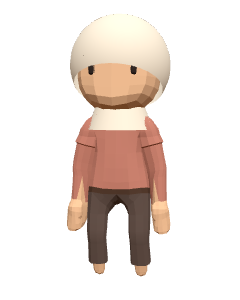
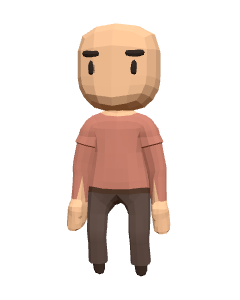
HD characters: feet on the ground, steps keep up with the walking speed; villagers on the square are HD
- The HD body stands just above the paving/floors (they lie a little above 0) and wears shoes
  (the models were barefoot: thin skin-coloured feet that looked sunk into the ground).
- The walk animation is played as fast as the character really moves (measured stride),
  so the feet no longer slide; capped so it never turns frantic.
- Every villager on the square is an HD character in their own colours, with moustache,
  glasses, cap, apron, headscarf and long dress where they have one; sitting villagers
  (tea garden, kahvehane, chess) sit. Blocky again elsewhere.
- Each HD character gets its own materials (clones shared them: one shirt colour painted all).
- Switching clips fades out every running clip (idle kept playing under "sit": half-standing).
- Clothes are measured facing +z, so a turned character gets them in the right place.

Claude-Session: https://claude.ai/code/session_01TLT5TM9P15eVN76bNK6R9H

diff --git a/web/src/entities/Character.js b/web/src/entities/Character.js
@@ -2,7 +2,7 @@ import * as THREE from 'three';
 import { buildRig, RIG_PROPS } from './CharacterRig.js';
 import { fitToBox } from '../engine/ModelLibrary.js';
 import { sitPose } from './Behaviors.js';
-import { addHeadscarf, addDress, paintOutfit } from './hdClothes.js';
+import { addHeadscarf, addDress, paintOutfit, addShoes, paintLook, addLookExtras, facingZ } from './hdClothes.js';
 
 const wrapAngle = (d) => { while (d > Math.PI) d -= Math.PI * 2; while (d < -Math.PI) d += Math.PI * 2; return d; };
 
@@ -12,9 +12,11 @@ export class Character {
   #aura = null;
   #hdKey = null;
   #hdWanted = false;
+  #lastPos = null;
   constructor(id, appearance, { mf, models }) {
     this.id = id;
     this.appearance = appearance;
+    this.models = models;
     this.rig = buildRig(mf, appearance);
     this.group = this.rig.g;
     (appearance.props || []).forEach((p) => { this.rig.props[p] = RIG_PROPS[p](mf, this.rig); this.rig.props[p].visible = false; });
@@ -91,6 +93,13 @@ export class Character {
   }
 
   update(dt) {
+    const hdWalk = this.#hd?.stride && this.mixer === this.#hd.mixer && this.current === 'walk' ? this.clips.walk : null;
+    if (hdWalk && dt > 0) { // the steps keep up with the real speed
+      const p = this.group.position, moved = this.#lastPos ? Math.hypot(p.x - this.#lastPos.x, p.z - this.#lastPos.z) / dt : 0;
+      const natural = this.#hd.stride * (this.group.scale.x || 1);
+      hdWalk.timeScale += (Math.min(3.5, Math.max(0.7, moved / natural || 1)) - hdWalk.timeScale) * Math.min(1, dt * 8);
+    }
+    this.#lastPos = { x: this.group.position.x, z: this.group.position.z };
     this.mixer?.update(dt);
     const skirt = this.#hd?.skirt;
     if (skirt) { skirt.skirt.visible = this.#hd.scene.visible && !this.seated; if (skirt.skirt.visible) skirt.follow(); } // seated: the legs, in the dress's colour
@@ -112,10 +121,12 @@ export class Character {
   }
 
   /**
-   * The HD character from the shop (assets/models/hd_*.glb, Quaternius CC0) instead of the blocky
-   * body while `on`. Loaded once; `covered`: the hair goes, a headscarf goes on (Sare).
+   * The HD character (assets/models/hd_*.glb, Quaternius CC0) instead of the blocky body while
+   * `on`: the player's from the shop, and the villagers on the square. Loaded once.
+   * `covered`: the hair goes, a headscarf goes on; `dress`: a long skirt; `look`: a villager's
+   * own colours and moustache, glasses, cap, apron (CharacterRig's appearance).
    */
-  async setHd(models, key, on, { covered = false, dress = false } = {}) {
+  async setHd(models, key, on, { covered = false, dress = false, look = null, scarfColor = null } = {}) {
     this.#hdWanted = on;
     if (on && this.#hd && this.#hd !== 'loading' && this.#hdKey !== key) { // another outfit: drop the old one
       this.#hd.scene.removeFromParent(); this.#hd.skirt?.skirt.removeFromParent(); this.#hd = null;
@@ -125,14 +136,18 @@ export class Character {
       this.#hd = 'loading';
       try {
         const { scene, animations } = await models.load(key);
+        // every character its own materials (the clones share them: one shirt colour would paint them all)
+        scene.traverse((o) => { if (o.isMesh) o.material = Array.isArray(o.material) ? o.material.map((m) => m.clone()) : o.material.clone(); });
         // the animation first: it moves the bones (and the model's size) into their real place
         const mixer = new THREE.AnimationMixer(scene), clips = {};
         animations.forEach((a) => { clips[a.name] = mixer.clipAction(a); });
         if (clips.sit) { clips.sit.setLoop(THREE.LoopOnce); clips.sit.clampWhenFinished = true; } // sits down and stays
         clips.idle?.play(); mixer.update(0);
         scene.updateMatrixWorld(true);
-        const b = new THREE.Box3().setFromObject(scene, true);
-        scene.scale.multiplyScalar(2.15 / (b.max.y - b.min.y)); // the blocky body's height (the group's scale makes a child of it)
+        const b = new THREE.Box3().setFromObject(scene, true), k = 2.15 / (b.max.y - b.min.y);
+        scene.scale.multiplyScalar(k); // the blocky body's height (the group's scale makes a child of it)
+        scene.position.y = -b.min.y * k + 0.04 / (this.group.scale.y || 1); // the soles just on the ground (floors and paving lie a little above 0)
+        const stride = this.#strideSpeed(scene, mixer, clips);
         const skin = this.appearance.skin ?? 0xE9B98F, hair = [];
         scene.traverse((o) => {
           if (!o.isMesh) return;
@@ -145,10 +160,17 @@ export class Character {
         });
         const [, outfit, gender] = key.split('.'); // hd.<outfit>.<boy|girl>
         const scarf = paintOutfit(scene, dress ? 'dress' : outfit, gender);
+        if (look) paintLook(scene, look);
+        addShoes(scene, look?.pants && dress ? 0x4A3A30 : 0x3B2A20);
         this.group.add(scene);
-        const scarfParts = covered ? addHeadscarf(scene, this.group, scarf) ?? [] : [];
-        const skirt = dress ? addDress(scene, this.group) : null;
-        this.#hd = { scene, mixer, clips, skirt, ...(scarfParts.length ? { scarf: scarfParts, hair } : {}) };
+        const extras = facingZ(this.group, () => {
+          const scarfParts = covered ? addHeadscarf(scene, this.group, scarfColor ?? scarf) ?? [] : [];
+          const skirt = dress ? addDress(scene, this.group, look?.skirt ?? null) : null;
+          if (look) addLookExtras(scene, this.group, look);
+          return { scarfParts, skirt };
+        });
+        const { scarfParts, skirt } = extras;
+        this.#hd = { scene, mixer, clips, skirt, stride, ...(scarfParts.length ? { scarf: scarfParts, hair } : {}) };
         if (this.covered === false) this.#hdCover(false); // already at home: hair open
       } catch (e) { console.warn('[models] hd:', e.message); this.#hd = null; return; }
     }
@@ -162,6 +184,25 @@ export class Character {
     this.current = null;
     if (on) this.#playClip(this.seated ? 'sit' : 'idle');
   }
+
+  /**
+   * How fast the walk animation itself moves forward (group units a second at normal speed): how
+   * far a foot travels back while on the ground, per half step. update() plays the walk that much
+   * faster or slower than the character really moves, so the feet don't slide.
+   */
+  #strideSpeed(scene, mixer, clips) {
+    const walk = clips.walk, foot = scene.getObjectByName('FootL');
+    if (!walk || !foot) return 0;
+    const dur = walk.getClip().duration, v = new THREE.Vector3();
+    let lo = Infinity, hi = -Infinity;
+    clips.idle?.stop(); walk.play();
+    for (let i = 0; i <= 24; i++) { mixer.setTime((dur * i) / 24); scene.updateMatrixWorld(true); scene.worldToLocal(foot.getWorldPosition(v)); lo = Math.min(lo, v.z); hi = Math.max(hi, v.z); }
+    walk.stop(); clips.idle?.play(); mixer.setTime(0); scene.updateMatrixWorld(true);
+    return ((hi - lo) * scene.scale.z) / (dur / 2);
+  }
+
+  /** After a change of seat or behaviour: the HD body sits or stands again. */
+  replayHd() { if (this.mixer && this.mixer === this.#hd?.mixer) { this.current = null; this.#playClip(this.seated ? 'sit' : 'idle'); } }
 
   /** A pulsing golden ring of light on the ground under the character (bought in the shop). */
   setAura(on) {
@@ -178,7 +219,9 @@ export class Character {
 
   #playClip(name) {
     if (!this.mixer || this.current === name || !this.clips[name]) return;
-    this.clips[this.current]?.fadeOut(0.2);
+    // every other running clip fades out (not only `current`: after a reset of `current` the
+    // idle kept playing under the sit and the two mixed into a half-standing pose)
+    Object.entries(this.clips).forEach(([n, a]) => { if (n !== name && a.isRunning()) a.fadeOut(0.2); });
     this.clips[name].reset().fadeIn(0.2).play();
     this.current = name;
   }

diff --git a/web/src/entities/hdClothes.js b/web/src/entities/hdClothes.js
@@ -49,7 +49,7 @@ export function addHeadscarf(scene, holder, color = 0xEFE3CF) {
  * and swallowed the body): it hangs straight down under the hips, which `follow()` tracks once
  * a frame. Measured in the standing pose. Returns { skirt, follow }.
  */
-export function addDress(scene, holder) {
+export function addDress(scene, holder, color = null) {
   const hips = scene.getObjectByName('Hips');
   if (!hips) return null;
   const turned = holder.rotation.y;
@@ -58,6 +58,7 @@ export function addDress(scene, holder) {
   const pants = box('Pants'), all = new THREE.Box3().setFromObject(scene, true);
   let shirt = null;
   scene.traverse((o) => { if (o.isMesh && o.material?.name === 'Shirt') shirt = o.material.color; });
+  if (color != null) shirt = new THREE.Color(color); // a villager's skirt colour
   scene.traverse((o) => { if (o.isMesh && o.material?.name === 'Pants' && shirt) o.material.color.copy(shirt); });
   const ws = holder.getWorldScale(new THREE.Vector3()).x;
   const top = pants.max.y, bottom = all.min.y + (pants.max.y - all.min.y) * 0.1; // waist → just above the feet
@@ -73,4 +74,80 @@ export function addDress(scene, holder) {
   const follow = () => { holder.worldToLocal(hips.getWorldPosition(v)); skirt.position.set(v.x, v.y + drop, v.z); };
   follow();
   return { skirt, follow };
+}
+
+/** Measures in the holder's own frame (facing +z), whatever way it is turned now. */
+export function facingZ(holder, fn) {
+  const turned = holder.rotation.y;
+  holder.rotation.y = 0; holder.updateMatrixWorld(true);
+  try { return fn(); } finally { holder.rotation.y = turned; holder.updateMatrixWorld(true); }
+}
+const boxOf = (scene, name) => { const b = new THREE.Box3(); scene.traverse((o) => { if (o.isMesh && [o.material].flat().some((m) => m.name === name)) b.expandByObject(o, true); }); return b; };
+
+/**
+ * Shoes: the models are barefoot (the feet are skin) and the thin bare feet looked sunk into the
+ * ground. The skin triangles that move with the foot bones get their own shoe material.
+ */
+export function addShoes(scene, color = 0x3B2A20) {
+  scene.traverse((o) => {
+    if (!o.isSkinnedMesh || [o.material].flat()[0]?.name !== 'Skin' || Array.isArray(o.material)) return;
+    const g = o.geometry, idx = g.index, si = g.attributes.skinIndex, sw = g.attributes.skinWeight;
+    const bones = o.skeleton.bones.map((b) => b.name);
+    const get = [si.getX, si.getY, si.getZ, si.getW], wget = [sw.getX, sw.getY, sw.getZ, sw.getW];
+    const onFoot = (v) => { let b = 0; for (let k = 1; k < 4; k++) if (wget[k].call(sw, v) > wget[b].call(sw, v)) b = k; return /^(Foot|LowerLeg)/.test(bones[get[b].call(si, v)]); }; // the feet and the skin of the shins: shoes and socks
+    const keep = [], shoe = [];
+    for (let t = 0; t < idx.count; t += 3) {
+      const tri = [idx.getX(t), idx.getX(t + 1), idx.getX(t + 2)];
+      (tri.some(onFoot) ? shoe : keep).push(...tri);
+    }
+    if (!shoe.length) return;
+    g.setIndex([...keep, ...shoe]);
+    g.clearGroups(); g.addGroup(0, keep.length, 0); g.addGroup(keep.length, shoe.length, 1);
+    const m = o.material.clone(); m.name = 'Shoes'; m.color.setHex(color);
+    o.material = [o.material, m];
+  });
+}
+
+/** A villager's own colours on the HD model (the blocky look: shirt, trousers, hair, vest). */
+export function paintLook(scene, look) {
+  const p = { Shirt: look.shirt, Pants: look.pants, Hair: look.hair, Black: look.vest ?? look.shirt, Details: look.vest ?? look.shirt };
+  scene.traverse((o) => {
+    if (!o.isMesh) return;
+    for (const m of [o.material].flat()) if (p[m.name] != null) m.color.setHex(p[m.name]);
+    if ([o.material].flat()[0]?.name === 'Hair' && !look.hair) o.visible = false; // bald
+  });
+}
+
+/**
+ * What makes a villager recognisable, on the HD model: moustache, glasses, cap, apron. Placed from
+ * the eyes (the "Face" material) and fixed to the head / hip bone so they follow the animation.
+ */
+export function addLookExtras(scene, holder, look) {
+  const head = scene.getObjectByName('Head'), hips = scene.getObjectByName('Hips');
+  if (!head) return [];
+  return facingZ(holder, () => {
+    const face = boxOf(scene, 'Face'), hair = boxOf(scene, 'Hair'), shirt = boxOf(scene, 'Shirt');
+    if (face.isEmpty()) return [];
+    const ws = holder.getWorldScale(new THREE.Vector3()).x;
+    const fw = face.max.x - face.min.x, fh = face.max.y - face.min.y, c = face.getCenter(new THREE.Vector3());
+    const out = [];
+    const put = (mesh, x, y, z, bone = head) => { mesh.scale.multiplyScalar(1 / ws); mesh.position.copy(holder.worldToLocal(new THREE.Vector3(x, y, z))); holder.add(mesh); bone.attach(mesh); out.push(mesh); };
+    const mat = (color) => new THREE.MeshStandardMaterial({ color, roughness: 0.9 });
+    if (look.mustache) put(new THREE.Mesh(new THREE.BoxGeometry(fw * 0.62, fh * 0.32, fh * 0.25), mat(look.mustache)), c.x, face.min.y - fh * 0.85, face.max.z + fh * 0.02);
+    if (look.glasses) {
+      const rim = mat(0x1B2440);
+      [-1, 1].forEach((s) => put(new THREE.Mesh(new THREE.TorusGeometry(fw * 0.2, fw * 0.035, 6, 18), rim), c.x + s * fw * 0.27, face.min.y + fh * 0.3, face.max.z + fh * 0.12));
+      put(new THREE.Mesh(new THREE.BoxGeometry(fw * 0.14, fw * 0.035, fw * 0.035), rim), c.x, face.min.y + fh * 0.35, face.max.z + fh * 0.12);
+    }
+    if (look.cap) {
+      const top = hair.isEmpty() ? face.max.y + fh * 2 : hair.max.y, r = hair.isEmpty() ? fw * 0.8 : (hair.max.x - hair.min.x) * 0.47;
+      put(new THREE.Mesh(new THREE.CylinderGeometry(r, r, fh * 0.9, 18), mat(look.cap)), c.x, top - fh * 0.2, c.z - fw * 0.25);
+      put(new THREE.Mesh(new THREE.BoxGeometry(r * 1.1, fh * 0.12, r * 0.8), mat(look.cap)), c.x, top - fh * 0.6, face.max.z + r * 0.15);
+    }
+    if (look.apron && !shirt.isEmpty() && hips) {
+      const w = (shirt.max.x - shirt.min.x) * 0.5, h = (shirt.max.y - shirt.min.y) * 1.25;
+      put(new THREE.Mesh(new THREE.BoxGeometry(w, h, 0.02), mat(0xFFFFFF)), c.x, shirt.max.y - h * 0.62, shirt.max.z + 0.012, hips);
+    }
+    return out;
+  });
 }

diff --git a/web/src/entities/Npc.js b/web/src/entities/Npc.js
@@ -1,6 +1,17 @@
 import { Character } from './Character.js';
 import { Behaviors } from './Behaviors.js';
 
+/** Villagers are HD characters on the square (Character.setHd), blocky everywhere else. */
+export const HD_PLACES = new Set(['village']);
+/** The HD model and dressing for a villager's blocky look. */
+export function villagerHd(look) {
+  const woman = !!(look.skirt || look.headscarf || look.bun);
+  return {
+    key: woman ? 'hd.casual.girl' : look.vest ? 'hd.suit.boy' : 'hd.casual.boy',
+    opts: { covered: !!look.headscarf, scarfColor: look.headscarf ?? null, dress: !!look.skirt, look },
+  };
+}
+
 /** A non-player character: stands at an anchor in a location and runs a behaviour. */
 export class Npc extends Character {
   constructor(id, def, deps) {
@@ -31,6 +42,17 @@ export class Npc extends Character {
     if (!this.home) throw new Error(`${this.id}: unknown anchor ${location.id}.${anchor}`);
     this.place(this.home);
     this.setBehavior(behaviorName);
+    this.#hdFor(location.id);
+  }
+
+  /** HD on the square, blocky elsewhere; sitting behaviours sit the HD body down. */
+  #hdFor(place) {
+    const on = HD_PLACES.has(place);
+    if (!on && !this.hdOn) return;
+    this.hdOn = on;
+    const { key, opts } = villagerHd(this.appearance);
+    this.seated = on && !!this.behavior.seated;
+    this.setHd(this.models, key, on, opts);
   }
 
   setBehavior(name) {
@@ -44,6 +66,7 @@ export class Npc extends Character {
     Object.keys(r.props).forEach((p) => this.showProp(p, false));
     this.behavior = Behaviors[name] ?? Behaviors.stand;
     (this.behavior.props || []).forEach((p) => this.showProp(p, true));
+    if (this.hdOn) { this.seated = !!this.behavior.seated; this.replayHd(); }
   }
 
   /**

diff --git a/web/tools/models/preview.html b/web/tools/models/preview.html
@@ -2,7 +2,7 @@
 <!-- Renders the shop pictures of the outfits: node tools/models/render-previews.mjs -->
 <script type="importmap">{"imports":{"three":"https://cdn.jsdelivr.net/npm/three@0.160.0/build/three.module.js","three/addons/":"https://cdn.jsdelivr.net/npm/three@0.160.0/examples/jsm/"}}</script>
 <script type="module">
-import * as THREE from 'three'; import { GLTFLoader } from 'three/addons/loaders/GLTFLoader.js'; import { addHeadscarf, addDress, paintOutfit } from '../../src/entities/hdClothes.js';
+import * as THREE from 'three'; import { GLTFLoader } from 'three/addons/loaders/GLTFLoader.js'; import { addHeadscarf, addDress, paintOutfit, addShoes } from '../../src/entities/hdClothes.js';
 const W = 240, H = 300;
 const r = new THREE.WebGLRenderer({ antialias: true, alpha: true, preserveDrawingBuffer: true }); r.setSize(W, H); r.setClearColor(0x000000, 0); r.outputColorSpace = THREE.SRGBColorSpace; document.body.append(r.domElement);
 const L = new GLTFLoader();
@@ -14,6 +14,7 @@ window.render = async (file, covered, aura = false, dress = false) => {
   const b = new THREE.Box3().setFromObject(sc, true); sc.scale.multiplyScalar(2.0 / (b.max.y - b.min.y)); sc.updateMatrixWorld(true);
   const [, outfit, gender] = file.match(/hd_(\w+)_(boy|girl)\.glb/);
   const scarf = paintOutfit(sc, dress ? 'dress' : outfit, gender);
+  addShoes(sc);
   s.add(sc);
   if (covered) addHeadscarf(sc, s, scarf);
   if (dress) addDress(sc, s)?.follow();
